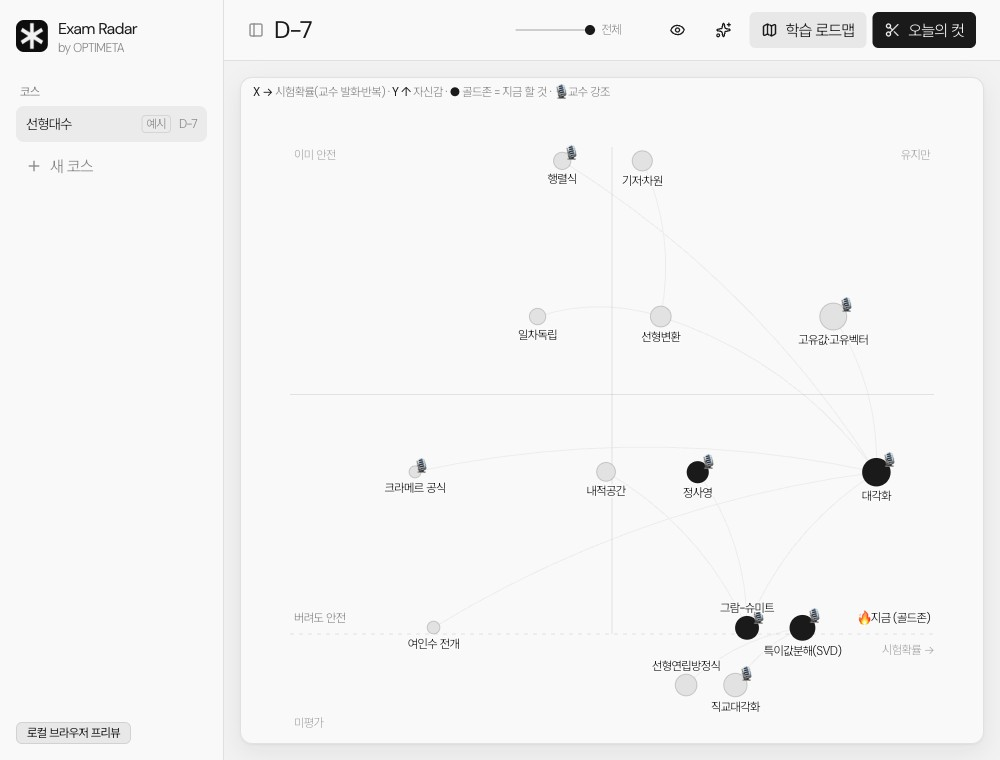
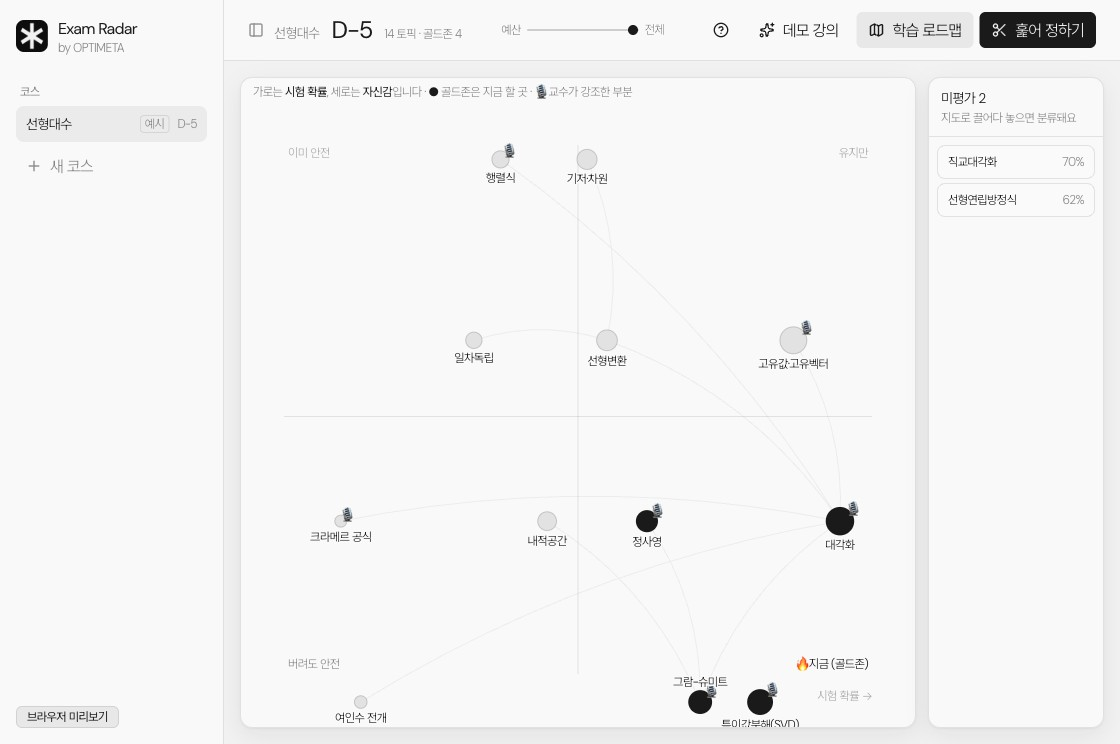
docs: refresh screenshots to current UI; add evidence and help shots
Re-capture hero (map + unrated tray), 훑어 정하기, and 학습 로드맵 with the current copy, and add 근거 보기 + 사용법 shots. Also fix the remaining Help-popup strings that were still translation-ese.

diff --git a/src/flows/Help.tsx b/src/flows/Help.tsx
@@ -58,7 +58,7 @@ export function Help({ onClose }: { onClose: () => void }) {
 
         <p className="mb-5 text-sm text-muted-foreground">
           강의 녹음에서 <b className="text-foreground">시험에 나올 토픽</b>을 뽑고,{" "}
-          <b className="text-foreground">지금 뭘 공부하고 뭘 버릴지</b>를 시험일까지 결정합니다. 퀴즈가 아니라 결정.
+          <b className="text-foreground">지금 무엇을 공부하고 무엇을 버릴지</b>를 시험일까지 정해 줍니다. 퀴즈가 아니라 결정입니다.
         </p>
 
         {/* 3단계 흐름 */}
@@ -74,9 +74,9 @@ export function Help({ onClose }: { onClose: () => void }) {
           ))}
         </div>
 
-        {/* 맵 읽는 법 */}
-        <p className="text-sm">맵 읽는 법</p>
-        <p className="mb-2 text-xs text-muted-foreground">X → 시험확률(교수 발화·반복) · Y ↑ 자신감</p>
+        {/* 지도 읽는 법 */}
+        <p className="text-sm">지도 읽는 법</p>
+        <p className="mb-2 text-xs text-muted-foreground">가로는 시험 확률(교수가 강조하고 반복한 정도), 세로는 자신감입니다</p>
         <div className="mb-6 grid grid-cols-1 gap-1.5 sm:grid-cols-2">
           {ZONES.map((z) => (
             <div key={z.k} className="rounded-lg border p-2.5">
@@ -89,7 +89,7 @@ export function Help({ onClose }: { onClose: () => void }) {
         </div>
 
         {/* 인터랙션 */}
-        <p className="mb-2 text-sm">맵에서 할 수 있는 것</p>
+        <p className="mb-2 text-sm">지도에서 할 수 있는 일</p>
         <div className="mb-6 space-y-1.5">
           {TIPS.map(([k, v]) => (
             <div key={k} className="flex gap-3 text-xs">
@@ -100,7 +100,7 @@ export function Help({ onClose }: { onClose: () => void }) {
         </div>
 
         <div className="flex items-center justify-between">
-          <p className="text-xs text-muted-foreground">공부 적게, 점수 더.</p>
+          <p className="text-xs text-muted-foreground">공부는 적게, 점수는 높게.</p>
           <Button size="sm" onClick={onClose}>
             이해했어요
           </Button>
